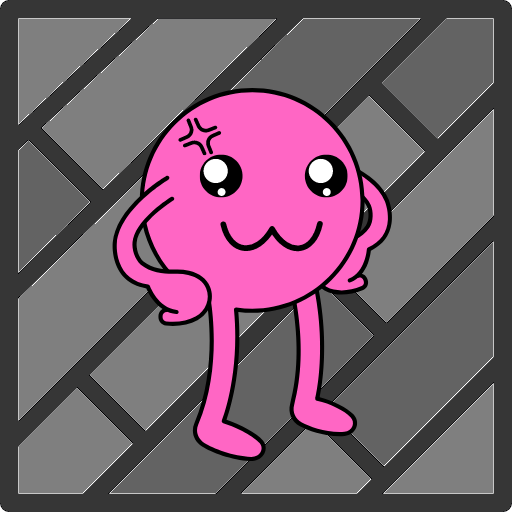
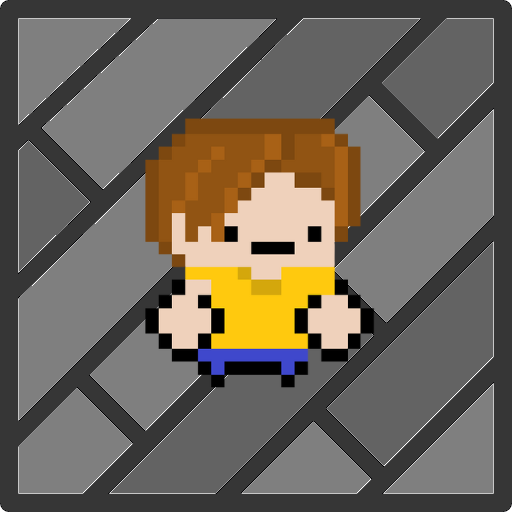
toma

Changed region(s): [[0.2188, 0.1562, 0.7812, 0.9062]]

diff --git a/src/Tabuleiro.java b/src/Tabuleiro.java
@@ -24,7 +24,7 @@ public class Tabuleiro extends JPanel {
         for (int i = 0; i < MAXLIN; i++) {
             for (int j = 0; j < MAXCOL; j++) {
 
-                celulas[i][j] = new Fundo("Fundo[" + i + "][" + j + "]", i,"floorcave.jpg", j, this);
+                celulas[i][j] = new Fundo("Fundo[" + i + "][" + j + "]", i,"parquet.png", j, this);
                 this.add(celulas[i][j]);
             }
         }
@@ -115,18 +115,17 @@ public class Tabuleiro extends JPanel {
     public ElementoBasico getElem(char elem, int lin, int col) {
         Random r = new Random();
         switch (elem) {
-           case ' ': return new Fundo("Fundo",lin,"floorcave.jpg",col,this);
+           case ' ': return new Fundo("Fundo",lin,"parquet.png",col,this);
            case '-': return new Parede("Dica",lin,"wall.jpg",col,this);
-           case '?': return new Pista("Pista",r.nextInt(15), lin,col,this);
            case '^': return new TBD("Buraco","hole.jpg",lin,col,this);
-           case '+': return new Armadilha("armadilha","floorcave.jpg", lin, col, null);
-           case 'x':{  ElementoBasico anterior = new Fundo("Fundo",lin,"floorcave.jpg",col,this);
-                        antg = new Inimigo("Inimigo","dog3.png",lin,col,this);
+           case '+': return new Armadilha("armadilha","parquet.png", lin, col, null);
+           case 'x':{  ElementoBasico anterior = new Fundo("Fundo",lin,"parquet.png",col,this);
+                        antg = new Inimigo("Inimigo","Pooh.png",lin,col,this);
                         antg.setAnterior(anterior);
                         return antg;
        }    
-           case '*': {  ElementoBasico anterior = new Fundo("Fundo",lin,"floorcave.jpg",col,this);
-                        principal = new Personagem("boneco","mutley.jpg",lin,col,this);
+           case '*': {  ElementoBasico anterior = new Fundo("Fundo",lin,"parquet.png",col,this);
+                        principal = new Personagem("boneco","Personagem.png",lin,col,this);
                         principal.setAnterior(anterior);
                         return principal;
                     }
@@ -167,12 +166,12 @@ public class Tabuleiro extends JPanel {
                     if (distancia <= 1) {
                         // Atualizar a imagem da armadilha
                         Armadilha armadilha = (Armadilha) elemento;
-                        armadilha.setImage(createImageIcon("portal.png"));
+                        armadilha.setImage(createImageIcon("trap.png"));
                         armadilha.play();
                     } else {
                         // Reverter para a imagem padrão da armadilha
                         Armadilha armadilha = (Armadilha) elemento;
-                        armadilha.setImage(createImageIcon("floorcave.jpg"));
+                        armadilha.setImage(createImageIcon("parquet.png"));
                     }
                 }
             }

diff --git a/src/Personagem.java b/src/Personagem.java
@@ -1,6 +1,7 @@
 
 
 public class Personagem extends ElementoBasico {
+   
     private ElementoBasico anterior;
 
     public Personagem(String id, String iconPath, int linInicial, int colInicial, Tabuleiro tabuleiro) {
@@ -16,7 +17,7 @@ public class Personagem extends ElementoBasico {
         return anterior;
     }
     
-    public void moveDireita() {
+    public void moveDireita() { // DIREITA
         // Remove o Personagem da posicao atual e avança
         getTabuleiro().insereElemento(anterior);
         this.incCol();
@@ -32,7 +33,7 @@ public class Personagem extends ElementoBasico {
         }
     }
 
-    public void moveEsquerda() {
+    public void moveEsquerda() { // ESQUERDA
         // Remove o Personagem da posicao atual e avança
         getTabuleiro().insereElemento(anterior);
         this.decCol();
@@ -48,7 +49,7 @@ public class Personagem extends ElementoBasico {
         }
     }
 
-    public void moveCima() {
+    public void moveCima() { // CIMA
         // Remove o Personagem da posicao atual e avança
         getTabuleiro().insereElemento(anterior);
         this.decLin();
@@ -64,7 +65,7 @@ public class Personagem extends ElementoBasico {
         }
     }
 
-    public void moveBaixo() {
+    public void moveBaixo() { // BAIXO
         // Remove o Personagem da posicao atual e avança
         getTabuleiro().insereElemento(anterior);
         this.incLin();

diff --git a/src/ElementoBasico.java b/src/ElementoBasico.java
@@ -5,14 +5,12 @@ import javax.swing.ImageIcon;
 import javax.swing.JButton;
 
 public abstract class ElementoBasico extends JButton {
+    
     private Tabuleiro tabuleiro;
     private String id;
     private ImageIcon imagem;
     private int lin;
     private int col;
-
-    
-
     
     public ElementoBasico(String id,String iconPath,int linInicial,int colInicial,Tabuleiro tabuleiro){
         this.id = id;

diff --git a/src/Fundo.java b/src/Fundo.java
@@ -1,11 +1,10 @@
 public class Fundo extends ElementoBasico{
 
     public Fundo(String id, int linInicial,String iconPath, int colInicial, Tabuleiro tabuleiro) {
-        super(id, "floorcave.jpg", linInicial, colInicial, tabuleiro);
+        super(id, "parquet.png", linInicial, colInicial, tabuleiro);
       
         
     }
-
 
     @Override
     public void acao(ElementoBasico outro) {

diff --git a/src/Inimigo.java b/src/Inimigo.java
@@ -3,8 +3,8 @@ import java.util.Random;
 import javax.swing.JOptionPane;
 
 public class  Inimigo extends ElementoBasico {
+   
     private ElementoBasico anterior;
-
     
     public Inimigo(String id, String iconPath, int linInicial, int colInicial, Tabuleiro tabuleiro) {
         super(id, iconPath, linInicial, colInicial, tabuleiro);

diff --git a/src/Parede.java b/src/Parede.java
@@ -4,7 +4,7 @@ public class Parede extends ElementoBasico {
 
 
     public Parede(String id, int linInicial,String iconPath, int colInicial, Tabuleiro tabuleiro) {
-        super(id, "wall.jpg", linInicial, colInicial, tabuleiro);
+        super(id, "wall.png", linInicial, colInicial, tabuleiro);
         
     }
 

diff --git a/src/Armadilha.java b/src/Armadilha.java
@@ -2,6 +2,7 @@ import javax.swing.JOptionPane;
 
 public class Armadilha extends ElementoBasico {
     private Sounds som = Sounds.HIT;
+    
     public Armadilha(String id,String iconPath, int linInicial, int colInicial, Tabuleiro tabuleiro) {
         super(id,iconPath, linInicial, colInicial, tabuleiro);
     }

diff --git a/src/TBD.java b/src/TBD.java
@@ -2,7 +2,6 @@
 
 public class TBD extends ElementoBasico {
 
-
   public TBD(String id, String iconPath, int linInicial, int colInicial, Tabuleiro tabuleiro) {
       super(id, iconPath, linInicial, colInicial, tabuleiro);
       this.setBorderPainted(false);

diff --git a/src/Sounds.java b/src/Sounds.java
@@ -3,7 +3,8 @@ import java.net.URL;
 import javax.sound.sampled.*;
      
 	public enum Sounds {
-	   HIT("rock.mp3"),   
+	   
+		HIT("rock.mp3"),   
 	   MISS("music/nature2.wav"),
 	   BG("music/train.wav"),
 	   CONGRATS("music/glasses.wav");
